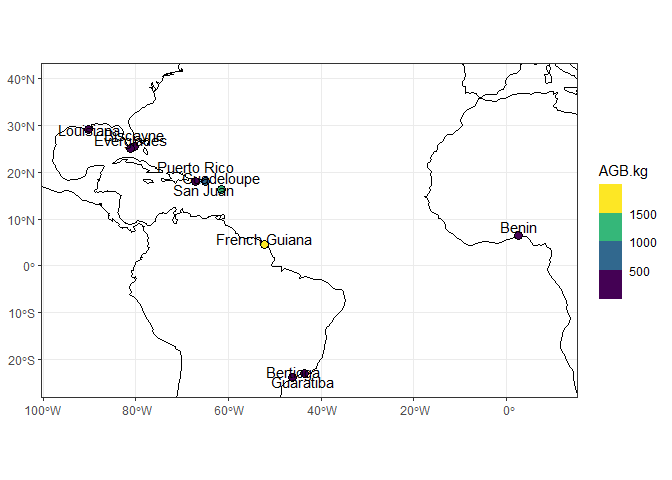
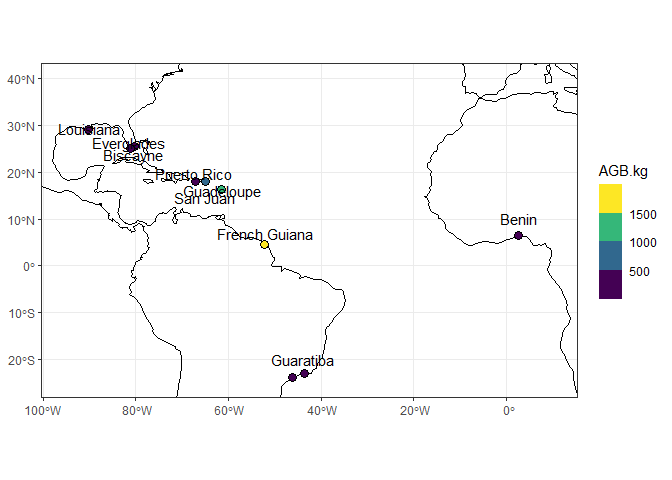
updating readme

diff --git a/README.md b/README.md
@@ -152,21 +152,6 @@ to scale them to the same order of magnitude. This would be important
 for mixed effects models utilizing predictor variables from very
 different orders of magnitude.
 
-``` r
-(ggplot(mangroves |> tidyr::pivot_longer(cols=c(AGB.kg,DBH.cm,Height.m,CanopyDiameter.m))|>
-         mutate(value=log10(value),
-                Site=factor(Site,levels=c("Biscayne","Benin","San Juan","Bertioga","Everglades","Louisiana","Guadeloupe","Guaratiba","French Guiana","Puerto Rico"))))+
-         geom_density(aes(x=value,fill=Site),alpha=0.5)+
-  scale_fill_manual(values=c("#B283BA","#FFE76D","#FE8F89","#95D8F5","#66AAD7","#A2B4FE","#E89875","#C67282","#ADCD82","#F4D078"))+
-  facet_wrap(~name)+
-  theme_classic())/
-(ggplot(mangroves |> tidyr::pivot_longer(cols=c(AGB.kg,DBH.cm,Height.m,CanopyDiameter.m))|>
-         mutate(value=log10(value)))+
-         geom_density(aes(x=value,fill=Species),alpha=0.5)+
-  facet_wrap(~name)+
-  theme_classic())
-```
-
 <figure>
 <img src="README_files/figure-gfm/pdf-1.png"
 alt="Fig.2 Distributions of the predictor variables. Notice the greater variance between locations, compared to that between species. Wood density is not shown as it was species specific and thus only composed of three" />
@@ -296,7 +281,7 @@ metrics of the fixed effects models are demonstrated further below, as
 they will be included with those from mixed effects models from the same
 set of predictor variables.
 
-    ## R RNG seed set to 21894
+    ## R RNG seed set to 953657
 
     ## # A tibble: 1 × 5
     ##   `(Intercept)_Fixed` slope.var1_Fixed slope.var2_Fixed VIF.var1_Fixed VIF.var2_Fixed
@@ -504,14 +489,12 @@ predictor variables and mixed effects. The ‘mods’ object contains the
 actual models as well as tables of their coefficients, various model
 performance metrics, and predictions from the models. We will now sort
 through, filter, and rank the models based on these performance metrics.
-Remember that while performance metrics are best scrutinized on models
-in which variables were scaled, model coefficients only make sense for
-unscaled variables. Focusing first on the model performance metrics,
-with scaled data, we first arrange and rank the models based on their
-performance.Here we also take the important step of calculating a
-back-transformed RMSE value for each model. It has been shown that
-taking a simple exponential of a log transformed value will reflect the
-geometric mean, not the average, which is intended [Baskerville,
+Focusing first on the model performance metrics, we first arrange and
+rank the models based on their performance.Here we also take the
+important step of calculating a back-transformed RMSE value for each
+model. It has been shown that taking a simple exponential of a log
+transformed value will reflect the geometric mean, not the average,
+which is intended [Baskerville,
 1971](https://cdnsciencepub.com/doi/epdf/10.1139/x72-009). Therefore, we
 apply a correction factor to the predicted values to back-transform them
 to the linear scale, and then we calculate the residuals and the linear
@@ -520,6 +503,17 @@ $$estimate = exp(\hat{y}+\frac{\sigma^2}{2})$$ where $\hat{y}$ is the
 log scaled prediction from the model and $\sigma^2$ is the square of the
 sigma value returned by the model, essentially the residual standard
 error of the model.
+
+We also calculate the Root Median Square Error (RMdSE). This metric
+helps evaluate the per-tree error rather than the per-dataset error that
+is more represented by the RMSE. Because large trees are exceptionally
+rare, and because an ordinary least squares regression (such as the ones
+we are performing) will be best representative of the median tree sizes,
+error terms for the outliers will typically be much larger and these
+errors will strongly skew the RMSE towards the greater values. While the
+RMSE is still a good metric to compare models for full-dataset error,
+the RMdSE is better suited to reflect how much error is ‘typical’ for
+each tree.
 
 ``` r
 ##  this same process is repeated for the >5cm dbh dataset as well 
@@ -548,12 +542,15 @@ RMSE_lin <- lapply(seq_along(mods$mods), function(x) {
   RMSE <- sqrt(mean((resp_log - preds_log)^2, na.rm = TRUE))
   # Apply Baskerville correction and back-transform
   preds_lin <- exp(preds_log) * exp((sigma_val^2) / 2)
-  # Calculate back-transformed RMSE
+  # Calculate back-transformed RMSEn and RMdSE
   RMSE_lin <- sqrt(mean((resp - preds_lin)^2, na.rm = TRUE))
+  RMdSE_lin <- sqrt(median((resp - preds_lin)^2, na.rm = TRUE))
   # calculate relative RMSE using the mean AGB for the model
   meanAGB <- mean(resp ,na.rm=TRUE)
+  medianAGB <- median(resp ,na.rm=TRUE)
   # Return data frame
-  data.frame(Model=Model,RMSE = RMSE, RMSE_lin = RMSE_lin, meanAGB=meanAGB,RelRMSE_lin=100*RMSE_lin/meanAGB)
+  data.frame(Model=Model,RMSE = RMSE, RMSE_lin = RMSE_lin,RMdSE_lin=RMdSE_lin, meanAGB=meanAGB,medianAGB=medianAGB,RelRMSE_lin=100*RMSE_lin/meanAGB,
+             RelRMdSE_lin=100*RMdSE_lin/medianAGB)
 })
 RMSE_lin <- do.call(rbind,RMSE_lin)
 ##  pivot the table and categorize metrics and models
@@ -568,13 +565,13 @@ performance_long <- performance %>%
 ##  add in the linear RMSE values
 performance_long <- bind_rows(performance_long,
                           performance_long %>% select(VarGroup,Model,ModelN,NumPredictors,MixedEffects,Effects,ModelName) %>% distinct()%>%
-  left_join(RMSE_lin %>% select(-c(meanAGB)) %>%tidyr::pivot_longer(cols=-Model,names_to="Metric")%>% filter(Metric %in% c("RMSE_log","RMSE_lin","RelRMSE_lin")),by=join_by(ModelName==Model)))
+  left_join(RMSE_lin %>% select(-c(meanAGB)) %>%tidyr::pivot_longer(cols=-Model,names_to="Metric")%>% filter(Metric %in% c("RMdSE_lin","RelRMdSE_lin","RMSE_lin","RelRMSE_lin")),by=join_by(ModelName==Model)))
 
 ##  return back to wide format
 performance_wide <- performance_long |> select(-ModelName)|>tidyr::pivot_wider(names_from=c("Metric",Effects))|>group_by(ModelN)|>tidyr::fill(everything(),.direction = "down")|>filter(!is.na(MixedEffects))|>
-  relocate(RMSE_lin_Fixed,RelRMSE_lin_Fixed,.before=RMSE_log_Fixed)|>
-  relocate(RMSE_lin_MixedInt,RelRMSE_lin_MixedInt,.before=RMSE_log_MixedInt)|>
-  relocate(RMSE_lin_MixedIntSlope,RelRMSE_lin_MixedIntSlope,.before=RMSE_log_MixedIntSlope)
+  relocate(RMdSE_lin_Fixed,RelRMdSE_lin_Fixed,RMSE_lin_Fixed,RelRMSE_lin_Fixed,.before=RMSE_log_Fixed)|>
+  relocate(RMdSE_lin_MixedInt,RelRMdSE_lin_MixedInt,RMSE_lin_MixedInt,RelRMSE_lin_MixedInt,.before=RMSE_log_MixedInt)|>
+  relocate(RMdSE_lin_MixedIntSlope,RelRMdSE_lin_MixedIntSlope,RMSE_lin_MixedIntSlope,RelRMSE_lin_MixedIntSlope,.before=RMSE_log_MixedIntSlope)
 
 ##  rank the models based on their metrics
 performance_ranked <- performance_long
@@ -603,9 +600,9 @@ performance_ranked <- rbind(performance_ranked%>% filter(Effects!="Fixed"),
   ##  compute the mean of the ranks for each model family, this we call the 'mean rank'
   ##  here, we dont rank models with an ICC less than 0.1 or a missing ICC value
   ##  These suggest random effects are either minimal (zero) or there is not enough information to compute
-  mutate(globalranks_mean=mean(c(globalrank_Rsq,globalrank_AIC,globalrank_BIC,globalrank_RMSE_lin,globalrank_Sig,globalrank_RMSE_log.CVsd)),
+  mutate(globalranks_mean=mean(c(globalrank_Rsq,globalrank_AIC,globalrank_BIC,globalrank_RMSE_lin,globalrank_RMdSE_lin,globalrank_Sig,globalrank_RMSE_log.CVsd)),
          globalranks_mean=if_else((is.na(value_ICC)|value_ICC<.1)&Effects!="Fixed",NA, globalranks_mean),
-         familyranks_mean=mean(c(familyrank_Rsq,familyrank_AIC,familyrank_BIC,familyrank_RMSE_lin,familyrank_Sig,familyrank_RMSE_log.CVsd)),
+         familyranks_mean=mean(c(familyrank_Rsq,familyrank_AIC,familyrank_BIC,familyrank_RMSE_lin,familyrank_RMdSE_lin,familyrank_Sig,familyrank_RMSE_log.CVsd)),
          familyranks_mean=if_else((is.na(value_ICC)|value_ICC<.1)&Effects!="Fixed",NA, familyranks_mean))%>%
   ungroup()%>%
   ###  now create a master global rank based on the means
@@ -618,7 +615,7 @@ performance_ranked <- rbind(performance_ranked%>% filter(Effects!="Fixed"),
   relocate(masterrank_global,masterrank_family,.after=Effects)%>%
   arrange(masterrank_global)
 
-##  attach the VIF values from the coefficients table, this time sourced from the unscaled data models
+##  attach the VIF values from the coefficients table
 coef <- mods$coefs |>
   mutate(across(6:32,~round(.x,5)))|>
   rowwise()|>
@@ -633,25 +630,22 @@ coef_long <- coef %>%
 coef_wide <- coef_long %>%
   tidyr::pivot_wider(names_from=Coefficient)%>%
   relocate(ModelN,Effects,.before=MixedEffects)
+
 performance_ranked <- performance_ranked %>% 
   left_join(coef_wide%>%select(ModelN,MixedEffects,Effects,maxVIF),by=join_by(ModelN==ModelN,MixedEffects==MixedEffects,Effects==Effects))%>%
   relocate(maxVIF,.after=value_ICC)|>
-  relocate(value_RMSE_lin,value_RelRMSE_lin,.before=value_RMSE_log)
+  relocate(value_RMdSE_lin,value_RelRMdSE_lin,value_RMSE_lin,value_RelRMSE_lin,.before=value_RMSE_log)
+
 coefs_filtered <- coef_wide %>%
   filter(paste0(ModelN,MixedEffects,Effects) %in% paste0(performance_ranked$ModelN,performance_ranked$MixedEffects,performance_ranked$Effects)) %>%  relocate(ModelN)
 coefs_ranked <- coefs_filtered[match(paste0(performance_ranked$ModelN,performance_ranked$MixedEffects,performance_ranked$Effects),
                                        paste0(coefs_filtered$ModelN,coefs_filtered$MixedEffects,coefs_filtered$Effects)), ]
-performance_coeffs_combined <- performance_ranked %>%select(ModelN,Model,MixedEffects,Effects,masterrank_global,value_Rsq:value_RMSE_log,value_RMSE_lin,value_RelRMSE_lin,value_RMSE_log.CVmean:value_ICC) %>%
+performance_coeffs_combined <- performance_ranked %>%select(ModelN,Model,MixedEffects,Effects,masterrank_global,value_Rsq:value_RMSE_log,value_RMSE_lin,value_RelRMSE_lin,value_RMdSE_lin,value_RelRMdSE_lin,value_RMSE_log.CVmean:value_ICC) %>%
   left_join(coef_wide%>%select(-c(VarGroup,Model,NumPredictors)),by=join_by(ModelN==ModelN,MixedEffects==MixedEffects,Effects==Effects))
 ```
 
 The above created tables are stored in ‘Tables’ folder of this
-repository. Although they all contain the same identifying information
-that allows for comparisons across tables (coefficients versus
-performance metrics), the filenames of the tables indicate that while
-the performance metrics come from models in which variables were scaled
-prior to fitting, the coefficient tables do not. This is important to
-note for interpretation and for replication.
+repository.
 
 We now have a dataset (performance_ranked) with the top performing model
 from each family of predictor variables, ranked by their performance
@@ -677,7 +671,7 @@ one example from the ‘top’ model.
 
 ``` r
 ######  testing assumptions on the top ranked models
-checks <- lapply(unique(performance_rank_filtered$ModelName),function(x){
+checks <- lapply(unique(performance_ranked$ModelName),function(x){
   pdf(file = paste0("./Assumptions/",x,"-model_checks.pdf"), width = 9, height = 11)
   print(performance::check_model(mods$mods[[x]]))
   dev.off()
@@ -686,7 +680,7 @@ checks <- lapply(unique(performance_rank_filtered$ModelName),function(x){
 
 <div class="figure">
 
-<img src="C:\Users\BENJAM~1\AppData\Local\Temp\RtmpYN1TjB\file7a40222c2003.png" alt="Fig. 1 An example of the assumptions plots for model '20.MixedInt_Species&amp;Site'. Each panel is a visual representation of the model assumptions. Many of the top-performing models seem to be satisfactory in meeting these assumptions, but some are not. All top model assumption plots are stored in the 'Assumptions' folder of the repository." width="100%" />
+<img src="C:\Users\BENJAM~1\AppData\Local\Temp\RtmpY7K1wC\filed34432d7289.png" alt="Fig. 1 An example of the assumptions plots for model '20.MixedInt_Species&amp;Site'. Each panel is a visual representation of the model assumptions. Many of the top-performing models seem to be satisfactory in meeting these assumptions, but some are not. All top model assumption plots are stored in the 'Assumptions' folder of the repository." width="100%" />
 <p class="caption">
 Fig. 1 An example of the assumptions plots for model
 ‘20.MixedInt_Species&Site’. Each panel is a visual representation of the
@@ -776,38 +770,95 @@ perfs2 <- do.call(rbind,perfs2) |>
   ungroup() |>
   arrange(RMSE_lin) |>
   mutate(Model.y=factor(Model.y,levels=unique(Model.y))) %>%
-  tidyr::pivot_longer(cols=c("Rsq","Sigma","AIC","BIC","RMSE_lin","RMSE_log.CVsd"))|>
+  tidyr::pivot_longer(cols=c("Rsq","Sigma","AIC","BIC","RMdSE_lin","RMSE_lin","RMSE_log.CVsd"))|>
   group_by(name) |>
   ###  re-scale the metrics so that the spiderwebs are comparable across families
   mutate(value2=if_else(name %in% c("Rsq"),scales::rescale(value,to=c(0.1,1)),scales::rescale(-value,to=c(0.1,1))),
          group=paste(RandomVars,RandomEffects,sep=" "),
          group=if_else(group=="none none","Fixed",group)) |>
   ungroup() %>%
-  mutate(name=factor(name,levels=c("AIC","BIC","RMSE_lin","RMSE_log.CVsd","Rsq","Sigma")))
+  mutate(name=if_else(name=="RMdSE_lin","RMdSE_\nlin",if_else(name=="RMSE_log.CVsd","RMSE_\nCVsd",if_else(name=="RMSE_lin","RMSE_\nlin",name))),
+         name=factor(name,levels=c("AIC","BIC","RMdSE_\nlin","RMSE_\nlin","RMSE_\nCVsd","Rsq","Sigma")))
   
 ###  plot the performance plots
+plot_index=0
 perfs2 %>%
   ggplot(aes(x=name,y=value2,color=group,group=group))+
   facet_wrap(~Model.y,scales="free",ncol =4,labeller=label_wrap_gen(width = 20))+
   geom_polygon(linewidth=1,alpha=0)+
+  scale_x_discrete(
+    labels = function(x) {
+      plot_index <<- plot_index + 1
+      # Only return labels for the 2nd facet (e.g., cyl == 6)
+      if (plot_index == 1) {
+        return(x)
+      } else {
+        return("") # Empties out the text for other facets
+      }
+    })+
   see::coord_radar()+
   scale_y_continuous(limits=c(0,1))+
   guides(color=guide_legend("Model Type",ncol=2)) +
   theme_bw()+
-  theme(axis.text =element_blank(),axis.title = element_blank(), axis.ticks=element_blank(),legend.position = "bottom",legend.direction =
-        "horizontal",panel.grid = element_line(color = "grey"))
+  theme(axis.text.y =element_blank(),axis.title = element_blank(), axis.ticks=element_blank(),legend.position = "bottom",legend.direction =
+        "horizontal",panel.grid = element_line(color = "grey"),panel.background = element_blank())
 ```
 
 <figure>
 <img src="README_files/figure-gfm/performance2-1.png"
-alt="Fig. S1 Performance charts for all model families. As in Fig. 2, larger polygons indicate better relative performance. The indicated RMSE represents the lowest value within that panel. Because all metric values are scaled across the entire model set, differences within families are relatively small but those between the ‘best’ (top left) and ‘worst’ (bottom right) models are more apparent." />
+alt="Fig. S1 Performance charts for all model families. As in Fig. 2, larger polygons indicate better relative performance. The indicated RMSE represents the lowest value within that panel. Because all metric values are log-scaled across the entire model set, differences within families are relatively small but those between the ‘best’ (top left) and ‘worst’ (bottom right) models are more apparent." />
 <figcaption aria-hidden="true">Fig. S1 Performance charts for all model
 families. As in Fig. 2, larger polygons indicate better relative
 performance. The indicated RMSE represents the lowest value within that
-panel. Because all metric values are scaled across the entire model set,
-differences within families are relatively small but those between the
-‘best’ (top left) and ‘worst’ (bottom right) models are more
+panel. Because all metric values are log-scaled across the entire model
+set, differences within families are relatively small but those between
+the ‘best’ (top left) and ‘worst’ (bottom right) models are more
 apparent.</figcaption>
+</figure>
+
+Another subject of interest involving the performance metrics is how
+well a model performs given the number of variables it considers.
+Typically models performs better with more predictors, as each predictor
+should be able to explain even a small amount of variance, which boosts
+performance. However, overly complex models are not always better,
+despite better performance. This is because greater complexity
+introduces greater potential for error and more difficulty in
+interpretation, which may not be warranted for only a small increase in
+predictive performance. The below figure demonstrates that for many
+performance metrics, there are simpler models that perform nearly as
+good or better than models with more predictors and more complexity.
+
+``` r
+ggplot(performance_long|>filter(Metric %in% c("AIC","BIC","Rsq","RMSE_lin","Sig","RMSE_log.CVsd"))|>
+         mutate(NumPredictors=if_else(Effects=="Fixed",NumPredictors-0.1,if_else(Effects=="MixedIntSlope",NumPredictors+0.1,NumPredictors)),
+                Metric = if_else(Metric=="Rsq","R squared",if_else(Metric=="Sig","Sigma",if_else(Metric=="RMSE_log.CVsd","RMSE CV standard deviation",
+                                                                                                 if_else(Metric=="RMSE_lin","linear RMSE",Metric)))),
+                Metric=factor(Metric,levels=c("R squared","AIC","BIC","Sigma","linear RMSE","RMSE CV standard deviation")),
+                Effects=if_else(Effects=="MixedInt","Mixed Intercept",if_else(Effects=="MixedIntSlope","Mixed Intercept & Slope",Effects))),
+       aes(x=NumPredictors,y=value,col=Effects))+
+  geom_point(width = 0.2, height = 0)+
+  facet_wrap(~Metric,ncol=2,scales='free_y')+
+  theme_classic()+
+  guides(color=guide_legend(title=""))+
+  xlab("Number of Predictors")+
+  theme(axis.title.y=element_blank(),legend.position = "bottom")
+```
+
+<figure>
+<img src="README_files/figure-gfm/Fig3-1.png"
+alt="Fig. 3 Bivariate plots of our six summary statistics (Panels A-F, R2, AIC, BIC, Sigma, the linear RMSE, and the standard deviation of the cross validated log scale RMSE.) as a function of the number of predictors. The different modelling types; fixed effects, mixed intercept and mixed intercept and slope, are denoted with pink, green and blue circles, respectively. The symbols for each number of predictors are offset slightly (shifted on the x-axis) to increase visibility, e.g. all of the symbols on the far left of Panel A have just a single predictor. Note that while models with more predictors tend to perform better (higher R2, lower everything else), many of the models with 1 or 2 predictors also perform reasonably well. Please consult Tables 3, S1-3 for specific model details." />
+<figcaption aria-hidden="true">Fig. 3 Bivariate plots of our six summary
+statistics (Panels A-F, R2, AIC, BIC, Sigma, the linear RMSE, and the
+standard deviation of the cross validated log scale RMSE.) as a function
+of the number of predictors. The different modelling types; fixed
+effects, mixed intercept and mixed intercept and slope, are denoted with
+pink, green and blue circles, respectively. The symbols for each number
+of predictors are offset slightly (shifted on the x-axis) to increase
+visibility, e.g. all of the symbols on the far left of Panel A have just
+a single predictor. Note that while models with more predictors tend to
+perform better (higher R2, lower everything else), many of the models
+with 1 or 2 predictors also perform reasonably well. Please consult
+Tables 3, S1-3 for specific model details.</figcaption>
 </figure>
 
 We can also examine more closely the random effects of the models. Here,
@@ -1100,23 +1151,16 @@ ggplot(performance_ranked,aes(y=value_RMSE_log.CVmean,x=value_RMSE_log)) +
 
 ![](README_files/figure-gfm/CV-1.png)<!-- -->
 
-``` r
-preds <- cbind(mods$predsF[,c("Species","Site","AGB.kg","logAGB.kg","preds_12.Fixed")],
-               data.frame(mods$predsMM[,"preds_12.MixedInt_Species&Site"]))|>
-  rename(preds_12.MixedInt_SpeciesandSite=mods.predsMM....preds_12.MixedInt_Species.Site..)|>
-  tidyr::pivot_longer(cols=c("preds_12.MixedInt_SpeciesandSite","preds_12.Fixed"))
-
-ggplot(preds,aes(y=exp(logAGB.kg),x=exp(value),col=Site,shape=Species)) +
-  geom_point()+
-  geom_abline(intercept=0,slope=1)+
-  facet_wrap(~name)
-```
-
-<figure>
-<img src="README_files/figure-gfm/predictions-1.png" alt="Fig. X" />
-<figcaption aria-hidden="true">Fig. X</figcaption>
-</figure>
-
+<!-- ```{r predictions,fig.height=5, message=FALSE,warning=FALSE,fig.cap="Fig. X "} -->
+<!-- preds <- cbind(mods$predsF[,c("Species","Site","AGB.kg","logAGB.kg","preds_12.Fixed")], -->
+<!--                data.frame(mods$predsMM[,"preds_12.MixedInt_Species&Site"]))|> -->
+<!--   rename(preds_12.MixedInt_SpeciesandSite=mods.predsMM....preds_12.MixedInt_Species.Site..)|> -->
+<!--   tidyr::pivot_longer(cols=c("preds_12.MixedInt_SpeciesandSite","preds_12.Fixed")) -->
+<!-- ggplot(preds,aes(y=exp(logAGB.kg),x=exp(value),col=Site,shape=Species)) + -->
+<!--   geom_point()+ -->
+<!--   geom_abline(intercept=0,slope=1)+ -->
+<!--   facet_wrap(~name) -->
+<!-- ``` -->
 <!-- ##  random effects-->
 <!-- varcorrs <- lapply(seq_along(modskeep),function(x){if(class(modskeep[[x]])[1]=="lmerMod"){as.data.frame(VarCorr(modskeep[[x]]))|>mutate(Model=names(modskeep)[x])}})-->
 <!-- varcorrs <- do.call(rbind,varcorrs) |>-->
